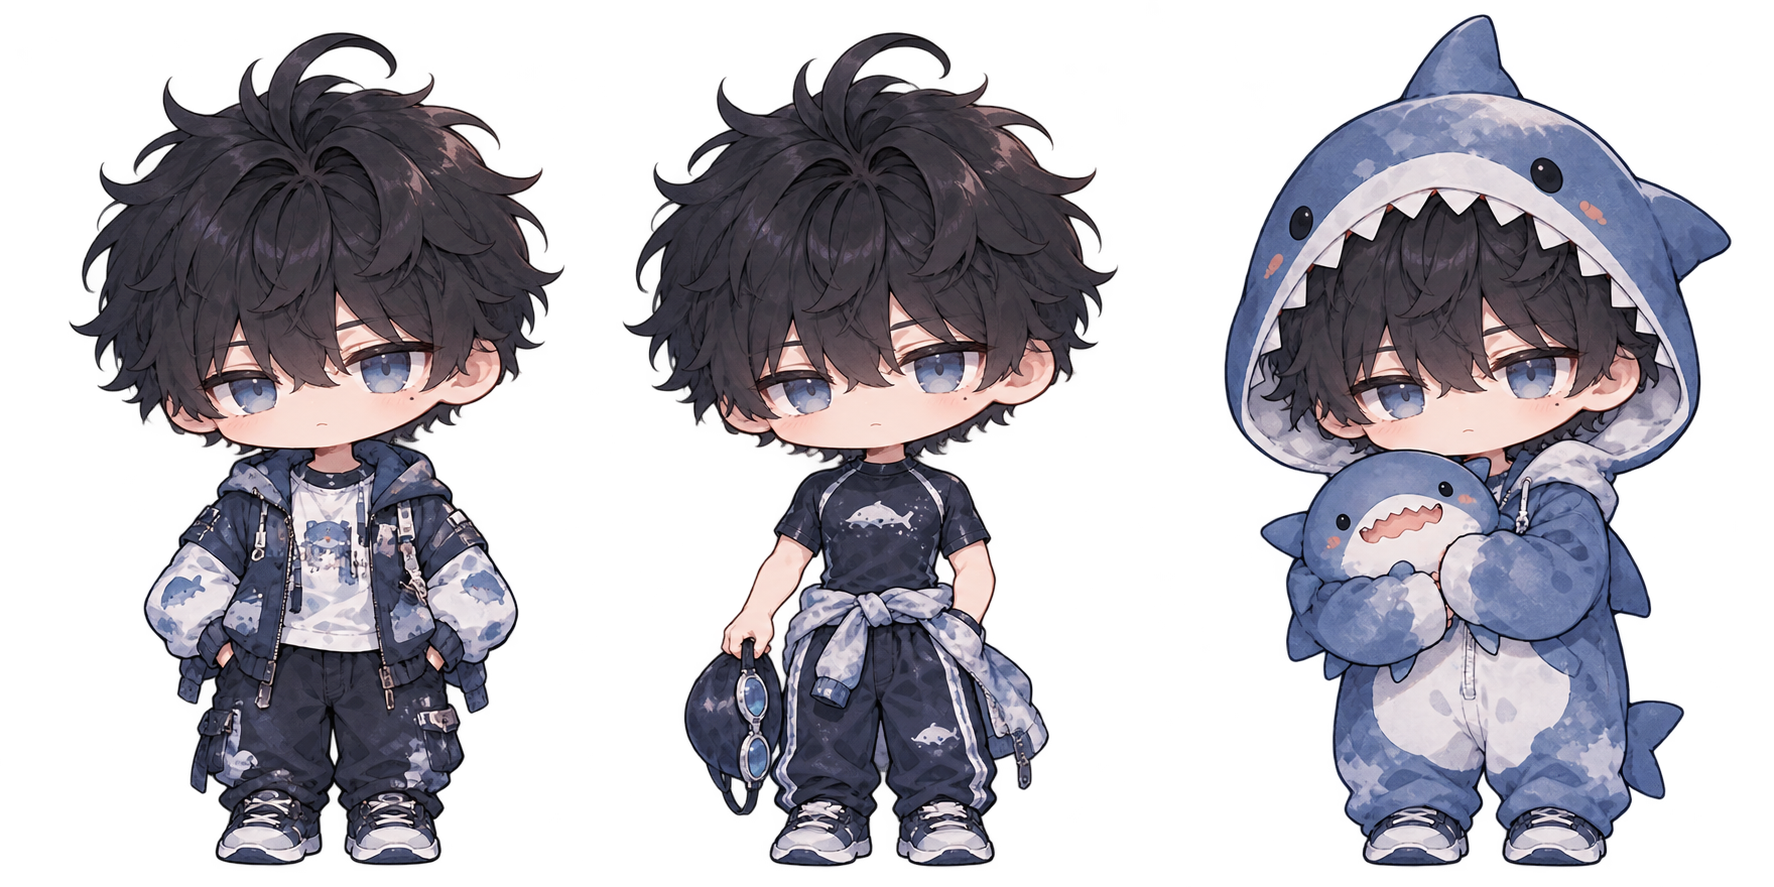
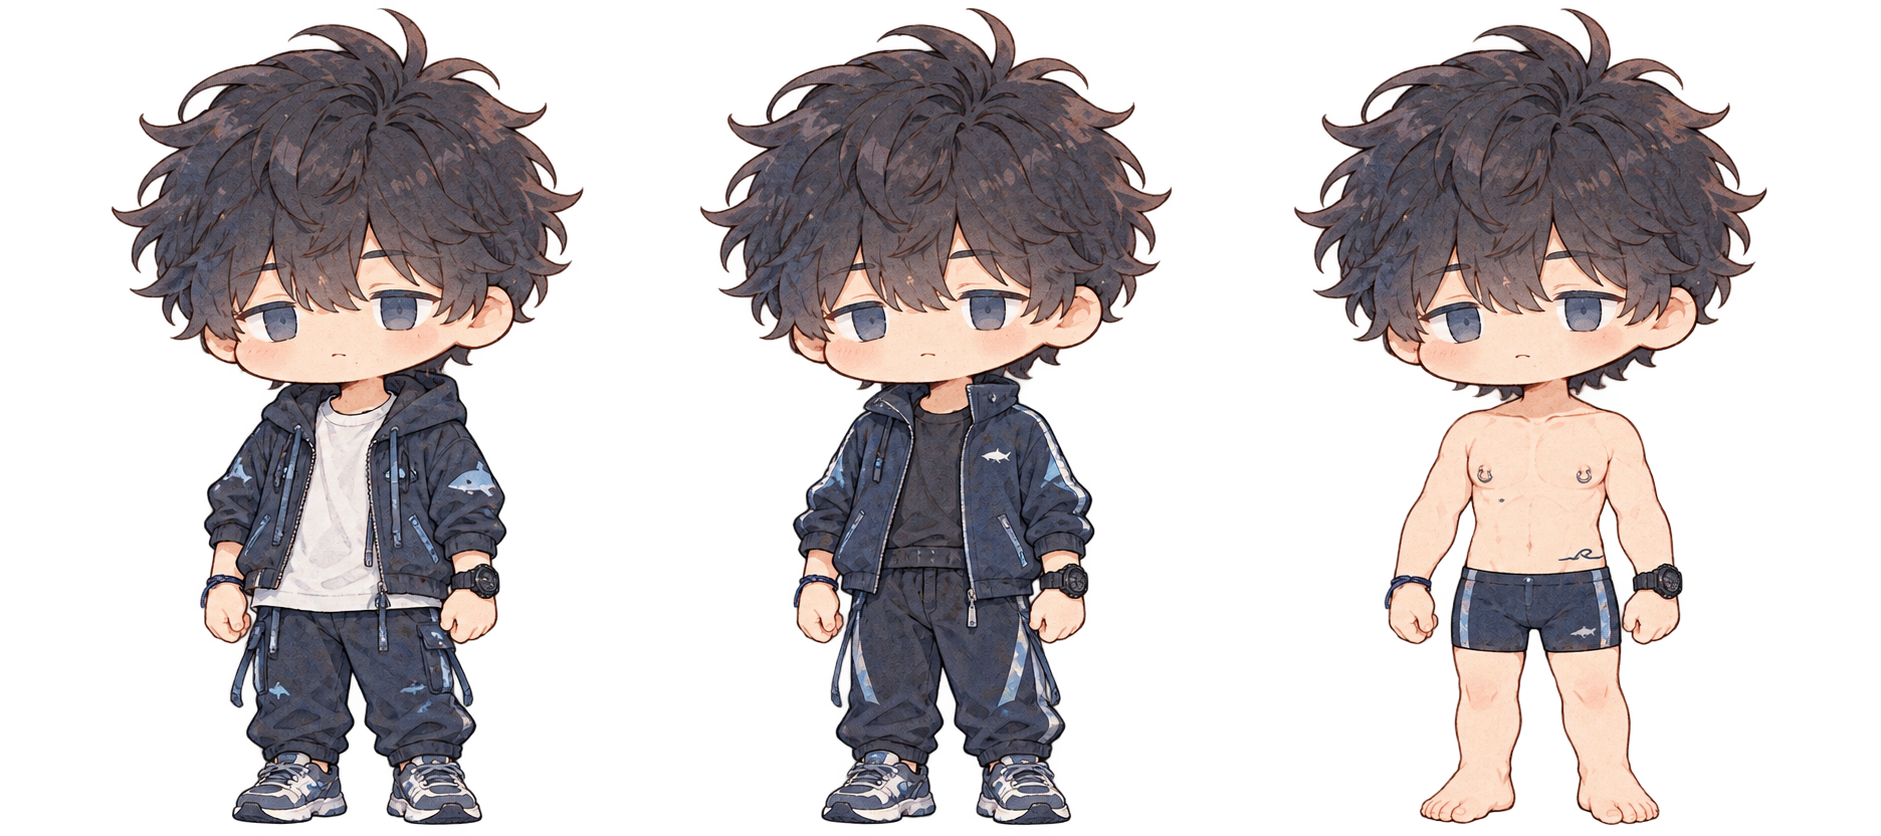
Pocket-Shensu-009-Updated-Character-Sheet

diff --git a/src/06_App.tsx b/src/06_App.tsx
@@ -29,7 +29,7 @@ const actionItems: Record<Room, Record<InteractionKind, { id: Action; label: str
     care: [{ id: 'rest', label: '提醒他補充體力', hint: '體力 +24', icon: '☾' }, { id: 'feed', label: '遞上訓練餐點', hint: '飽足 +30', icon: '＋' }],
   },
 }
-const outfitItems: Record<Room, Outfit[]> = { living: ['home', 'shark'], bedroom: ['home', 'shark'], kitchen: ['home', 'shark'], pool: ['training'] }
+const outfitItems: Record<Room, Outfit[]> = { living: ['casual', 'home', 'shark'], bedroom: ['home', 'sleep', 'shark'], kitchen: ['casual', 'home', 'shark'], pool: ['training', 'swim'] }
 const roomNames: Record<Room, string> = { living: '高樓公寓・客廳', bedroom: '高樓公寓・臥室', kitchen: '高樓公寓・廚房', pool: '曜川競技泳池' }
 
 export default function App() {
@@ -205,7 +205,10 @@ export default function App() {
     else if (page === 'outfit') changeOutfit(currentOutfits[selected % currentOutfits.length])
   }
   const changeRoom = (room: Room) => {
-    const outfit: Outfit = room === 'pool' ? 'training' : state.outfit === 'training' ? 'home' : state.outfit
+    const outfit: Outfit = room === 'pool'
+      ? state.outfit === 'swim' ? 'swim' : 'training'
+      : state.outfit === 'training' || state.outfit === 'swim' ? 'home'
+        : room === 'bedroom' && state.activity === '睡眠' ? 'sleep' : state.outfit
     commit(setOutfit(setRoom(state, room), outfit))
     showDialogue()
     setSelected(0)
@@ -250,7 +253,7 @@ export default function App() {
   }
 
   return <main className="app-shell">
-    <header className="topbar"><div className="brand"><span className="brand-mark">S</span><div><strong>口袋沈溯</strong><small>POCKET SHENSU · MVP 0.7</small></div></div>
+    <header className="topbar"><div className="brand"><span className="brand-mark">S</span><div><strong>口袋沈溯</strong><small>POCKET SHENSU · MVP 0.8</small></div></div>
       <button className="account-chip" onClick={() => setAuthOpen(!authOpen)} disabled={!supabase} title={supabase ? '帳號與雲端同步' : '請先設定 Supabase'}>
         {userEmail ? <><Wifi size={15}/><span>{userEmail}</span></> : <><WifiOff size={15}/><span>{supabase ? '登入同步' : '本機模式'}</span></>}
       </button>
@@ -277,7 +280,7 @@ export default function App() {
           <div className="menu-list">{currentActions.map((row, index) => <button key={row.id} className={`menu-row ${selected % currentActions.length === index ? 'selected' : ''}`} onMouseEnter={() => setSelected(index)} onClick={() => doAction(row.id)}><span className="row-icon">{row.icon}</span><span className="row-copy"><b>{row.label}</b><small>{row.hint}</small></span><span className="row-arrow">›</span></button>)}</div>
         </>}
         {page === 'outing' && <div className="menu-list room-list">{ROOMS.map((room, index) => <button key={room.id} className={`menu-row ${state.room === room.id ? 'selected' : ''}`} onMouseEnter={() => setSelected(index)} onClick={() => changeRoom(room.id)}><span className="row-icon">{room.icon}</span><span className="row-copy"><b>{room.name}</b><small>{state.room === room.id ? '沈溯目前在這裡' : room.id === 'pool' ? '前往曜川競技游泳隊' : '回到沈溯的公寓'}</small></span><span className="row-arrow">›</span></button>)}</div>}
-        {page === 'outfit' && <div className="closet-grid">{currentOutfits.map((outfit, index) => <button className={`outfit-card ${state.outfit === outfit ? 'selected' : ''}`} key={outfit} onMouseEnter={() => setSelected(index)} onClick={() => changeOutfit(outfit)}><span>{outfit === 'shark' ? '🦈' : outfit === 'training' ? '🏊' : '◒'}</span><b>{outfitName(outfit)}</b><small>{state.outfit === outfit ? '穿著中' : '換上這套'}</small></button>)}</div>}
+        {page === 'outfit' && <div className="closet-grid">{currentOutfits.map((outfit, index) => <button className={`outfit-card ${state.outfit === outfit ? 'selected' : ''}`} key={outfit} onMouseEnter={() => setSelected(index)} onClick={() => changeOutfit(outfit)}><span>{outfitIcon(outfit)}</span><b>{outfitName(outfit)}</b><small>{state.outfit === outfit ? '穿著中' : '換上這套'}</small></button>)}</div>}
         {page === 'memories' && <div className="memory-view">{state.unlockedMemories.length ? <div className="memory-card"><div className="memory-art">🦈<span>✦</span></div><b>安靜等你</b><p>沈溯穿著灰藍鯊魚裝，抱著娃娃坐在沙發上。</p><small>特別事件 · 已收錄</small></div> : <div className="empty-memory"><div>✧</div><b>回憶還是空白的</b><p>陪伴沈溯、參與日常，重要時刻會慢慢留在這裡。</p><button onClick={() => { setPage('interaction'); setInteractionKind('companion'); setSelected(0) }}>陪他待一會兒</button></div>}</div>}
         <div className="panel-footer"><span>{syncText}</span><span>← → 分類 · ↑ ↓ 選擇 · Enter 確認</span></div>
       </section>
@@ -290,7 +293,10 @@ export default function App() {
 }
 
 function Stat({ label, value, color }: { label: string; value: number; color: string }) { return <div className="stat-row"><div><span>{label}</span><b>{value}%</b></div><div className="bar"><i className={color} style={{ width: `${value}%` }}/></div></div> }
-function outfitName(outfit: Outfit) { return outfit === 'training' ? '競技訓練服' : outfit === 'shark' ? '灰藍鯊魚裝' : '居家服' }
+function outfitIcon(outfit: Outfit) { return ({ casual: '◒', home: '⌂', training: '⌁', swim: '≈', sleep: '☾', shark: '🦈' } as Record<Outfit, string>)[outfit] }
+function outfitName(outfit: Outfit) {
+  return ({ casual: '連帽外套', home: '居家服', training: '訓練外套', swim: '競技泳裝', sleep: '睡衣', shark: '灰藍鯊魚裝' } as Record<Outfit, string>)[outfit]
+}
 function speech(mood: GameState['mood'], activity: GameState['activity']) {
   if (mood === '低落' || mood === '煩躁') return '……'
   if (activity === '晨訓' || activity === '下午訓練') return '再一趟。'

diff --git a/src/07_styles.css b/src/07_styles.css
@@ -24,6 +24,11 @@
 .game-scene .character{z-index:3;left:41%;bottom:-4px;width:280px;height:100%;transform:translateX(-50%);transform-origin:bottom center;background-image:url('/assets/shensu-character-strip.png');background-repeat:no-repeat;background-size:auto 100%;image-rendering:auto;filter:drop-shadow(0 8px 8px #30434d24);animation:bob 3.2s ease-in-out infinite}.game-scene .character.tired{transform:translateX(-50%);animation:bob 4s ease-in-out infinite;filter:drop-shadow(0 7px 8px #30434d18) saturate(.82)}.game-scene .character-home{background-position:0% 50%}.game-scene .character-training{background-position:50% 50%}.game-scene .character-shark{background-position:100% 50%}
 @media(max-width:780px){.game-scene .character{left:75%;bottom:-2px;width:220px;height:100%;transform:translateX(-50%);background-size:auto 100%}.game-scene .character.tired{transform:translateX(-50%)}.game-scene .plush{left:84%;bottom:42px}}
 @media(max-width:380px){.game-scene .character{left:75%;width:195px;transform:translateX(-50%)}.game-scene .character.tired{transform:translateX(-50%)}}
+
+/* 009｜依新角色設定集擴充六種情境服裝立繪。 */
+.game-scene .character{width:315px}.game-scene .character-casual,.game-scene .character-training,.game-scene .character-swim{background-image:url('/assets/shensu-character-strip.png')}.game-scene .character-casual{background-position:0% 50%}.game-scene .character-training{background-position:50% 50%}.game-scene .character-swim{background-position:100% 50%}.game-scene .character-home,.game-scene .character-sleep,.game-scene .character-shark{background-image:url('/assets/shensu-home-strip.png')}.game-scene .character-home{background-position:0% 50%}.game-scene .character-sleep{background-position:50% 50%}.game-scene .character-shark{background-position:100% 50%}
+@media(max-width:780px){.scene-status{width:150px}.game-scene .character{left:70%;width:245px;bottom:-2px;transform:translateX(-50%)}.game-scene .character.tired{transform:translateX(-50%)}.game-scene .plush{left:84%;bottom:42px}}
+@media(max-width:380px){.scene-status{width:145px}.game-scene .character{left:70%;width:225px;transform:translateX(-50%)}.game-scene .character.tired{transform:translateX(-50%)}}
 @media(max-width:1050px){.app-shell{padding:23px 28px}.game-layout{grid-template-columns:minmax(150px,1fr) 340px minmax(240px,1fr);gap:20px}.device-area{transform:scale(.9);transform-origin:center}.intro h1{font-size:32px}.intro p{font-size:11px}}
 @media(max-width:780px){.app-shell{padding:18px 15px 14px}.topbar{padding-bottom:14px}.game-layout{grid-template-columns:1fr;gap:0;padding:16px 0 10px}.intro{display:none}.device-area{width:340px;height:465px;transform:none;order:0}.egg-screen{top:68px;width:266px;height:232px;border-width:7px}.device-logo{top:37px}.device-bottom{top:328px}.button-row{margin-top:13px;gap:23px}.button-row button{width:43px;height:43px}.button-row .confirm-button{width:54px;height:54px}.control-panel{order:1;justify-self:center;max-width:430px;min-height:330px;margin-top:13px;padding:17px 17px 12px}.menu-list{max-height:270px}.panel-footer span:last-child{font-size:6px}.footnote{font-size:8px}.screen-top,.screen-bottom{font-size:6px}}
 @media(max-width:380px){.device-area{transform:scale(.92);margin:-12px 0}.control-panel{margin-top:0}.account-chip{font-size:9px;padding:7px 9px}.brand strong{font-size:12px}}

diff --git a/src/02_simulation.ts b/src/02_simulation.ts
@@ -23,7 +23,7 @@ export function simulate(state: GameState | null, now = Date.now()): GameState {
   next.activity = activity
   // 訓練和用餐採固定行程；玩家切換房間不會改變角色行程。
   next.room = activity === '晨訓' || activity === '下午訓練' || activity === '睡眠' || activity === '早餐' || activity === '午餐' || activity === '晚餐' ? room : next.room
-  next.outfit = activity === '晨訓' || activity === '下午訓練' ? 'training' : activity === '睡眠' ? 'home' : next.outfit === 'training' ? 'home' : next.outfit
+  next.outfit = activity === '晨訓' || activity === '下午訓練' ? 'swim' : activity === '睡眠' ? 'sleep' : ['training', 'swim', 'sleep'].includes(next.outfit) ? 'home' : next.outfit
   if (next.energy < 30) next.mood = '疲倦'
   else if (next.hunger < 25) next.mood = '煩躁'
   else if (next.mood === '疲倦' || next.mood === '煩躁') next.mood = '平靜'

diff --git a/src/01_gameData.ts b/src/01_gameData.ts
@@ -1,6 +1,6 @@
 // 01｜遊戲資料與平衡參數：角色作息、狀態範圍、互動選項集中管理。
 export type Room = 'living' | 'bedroom' | 'kitchen' | 'pool'
-export type Outfit = 'home' | 'training' | 'shark'
+export type Outfit = 'casual' | 'home' | 'training' | 'swim' | 'sleep' | 'shark'
 export type Mood = '平靜' | '開心' | '疲倦' | '煩躁' | '低落' | '想撒嬌'
 export type Activity = '休息' | '晨訓' | '下午訓練' | '早餐' | '午餐' | '晚餐' | '睡眠' | '自由活動'
 

diff --git a/README.md b/README.md
@@ -1,4 +1,4 @@
-# 🦈 口袋沈溯 · MVP 0.7
+# 🦈 口袋沈溯 · MVP 0.8
 
 一款 React + TypeScript + Vite 的跨平台養成遊戲原型。支援手機直式與桌面瀏覽器，打開即顯示沈溯所在場景、人物與狀態欄；下方提供互動、出門、服裝、回憶四類選單。支援即時作息、離線結算、本機存檔與可選的 Supabase 雲端帳號。
 
@@ -34,7 +34,7 @@ Cloudflare Pages 的建置指令填 `npm run build`，輸出目錄填 `dist`。V
 
 - 響應式桌機／手機人物場景主畫面，直接顯示沈溯與親密度、飽足、體力、清潔等狀態。
 - 互動（陪伴／照顧）、出門、服裝、回憶四個分類；互動和服裝選項依場景調整。
-- 客廳、臥室、廚房、曜川泳池四種 CSS 臨時場景；人物使用依角色設定集製作的透明 Q 版立繪，含日常、訓練、鯊魚裝三套造型。
+- 客廳、臥室、廚房、曜川泳池四種 CSS 臨時場景；人物使用依角色設定集製作的透明 Q 版立繪，含日常、居家、訓練、泳裝、睡衣與鯊魚裝六套造型。
 - 本地時間作息重算、關閉期間離線恢復；沈溯不死亡，需求有上下限。
 - 餵食、安慰、摸頭、休息、清潔、看比賽錄影、鯊魚娃娃與鯊魚裝事件。
 - 本機存檔依登入帳號分區；資料有待同步標記，登出後不會把上一個帳號的資料帶到下一個帳號。

diff --git a/CHANGELOG.md b/CHANGELOG.md
@@ -1,5 +1,12 @@
 # 修改紀錄
 
+## 009｜依更新設定集補齊服裝與配件造型
+
+- 根據新角色設定集重製立繪，納入深色亂髮、灰藍眼、右嘴角下方小痣、左手運動錶、右手深藍細繩等特徵。
+- 新增日常連帽外套、居家服、訓練外套、競技泳裝、睡衣、鯊魚裝六種立繪；泳裝立繪呈現霧銀乳環及左髖浪線刺青。
+- 服裝選項依場景提供：公寓可換日常／居家／鯊魚裝，臥室另有睡衣，泳池可選訓練外套或泳裝；自主作息會換上泳裝或睡衣。
+- 更新透明素材、造型名稱、圖鑑操作說明與版本標記。
+
 ## 008｜以角色設定集替換臨時 CSS 人物
 
 - 依沈溯角色設定集製作三套一致的透明背景 Q 版立繪：日常服、訓練服、鯊魚裝抱娃娃。
